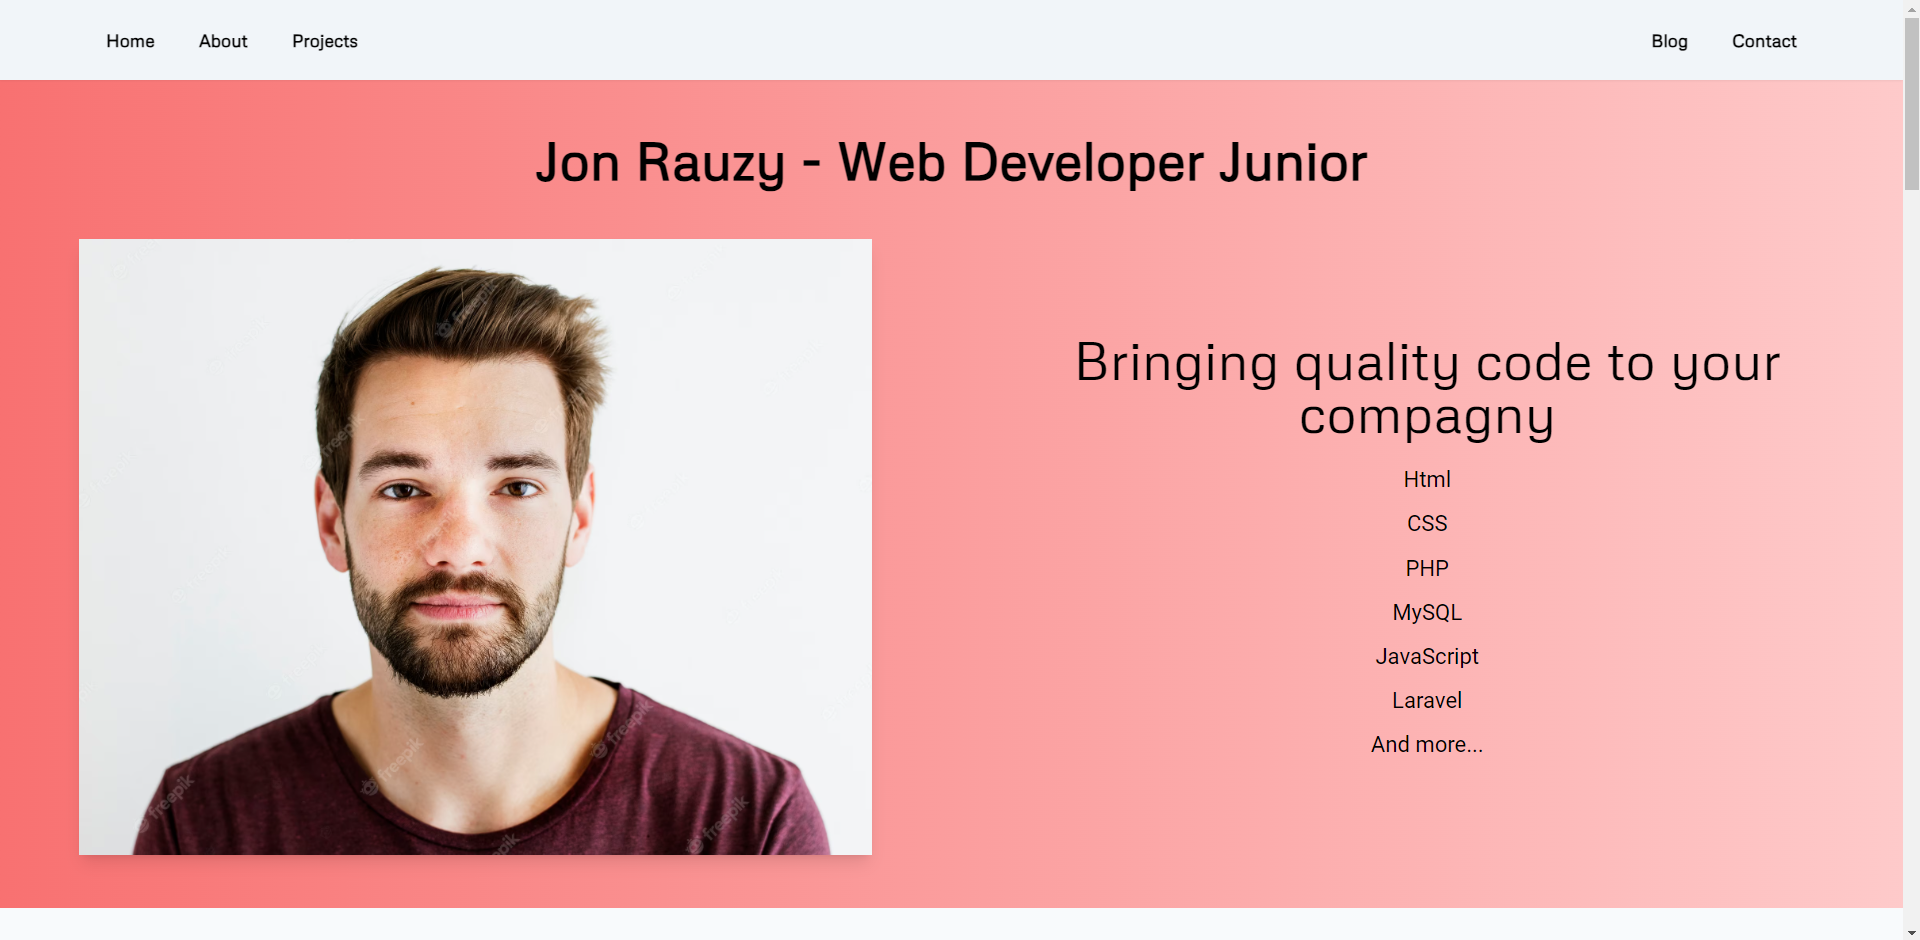
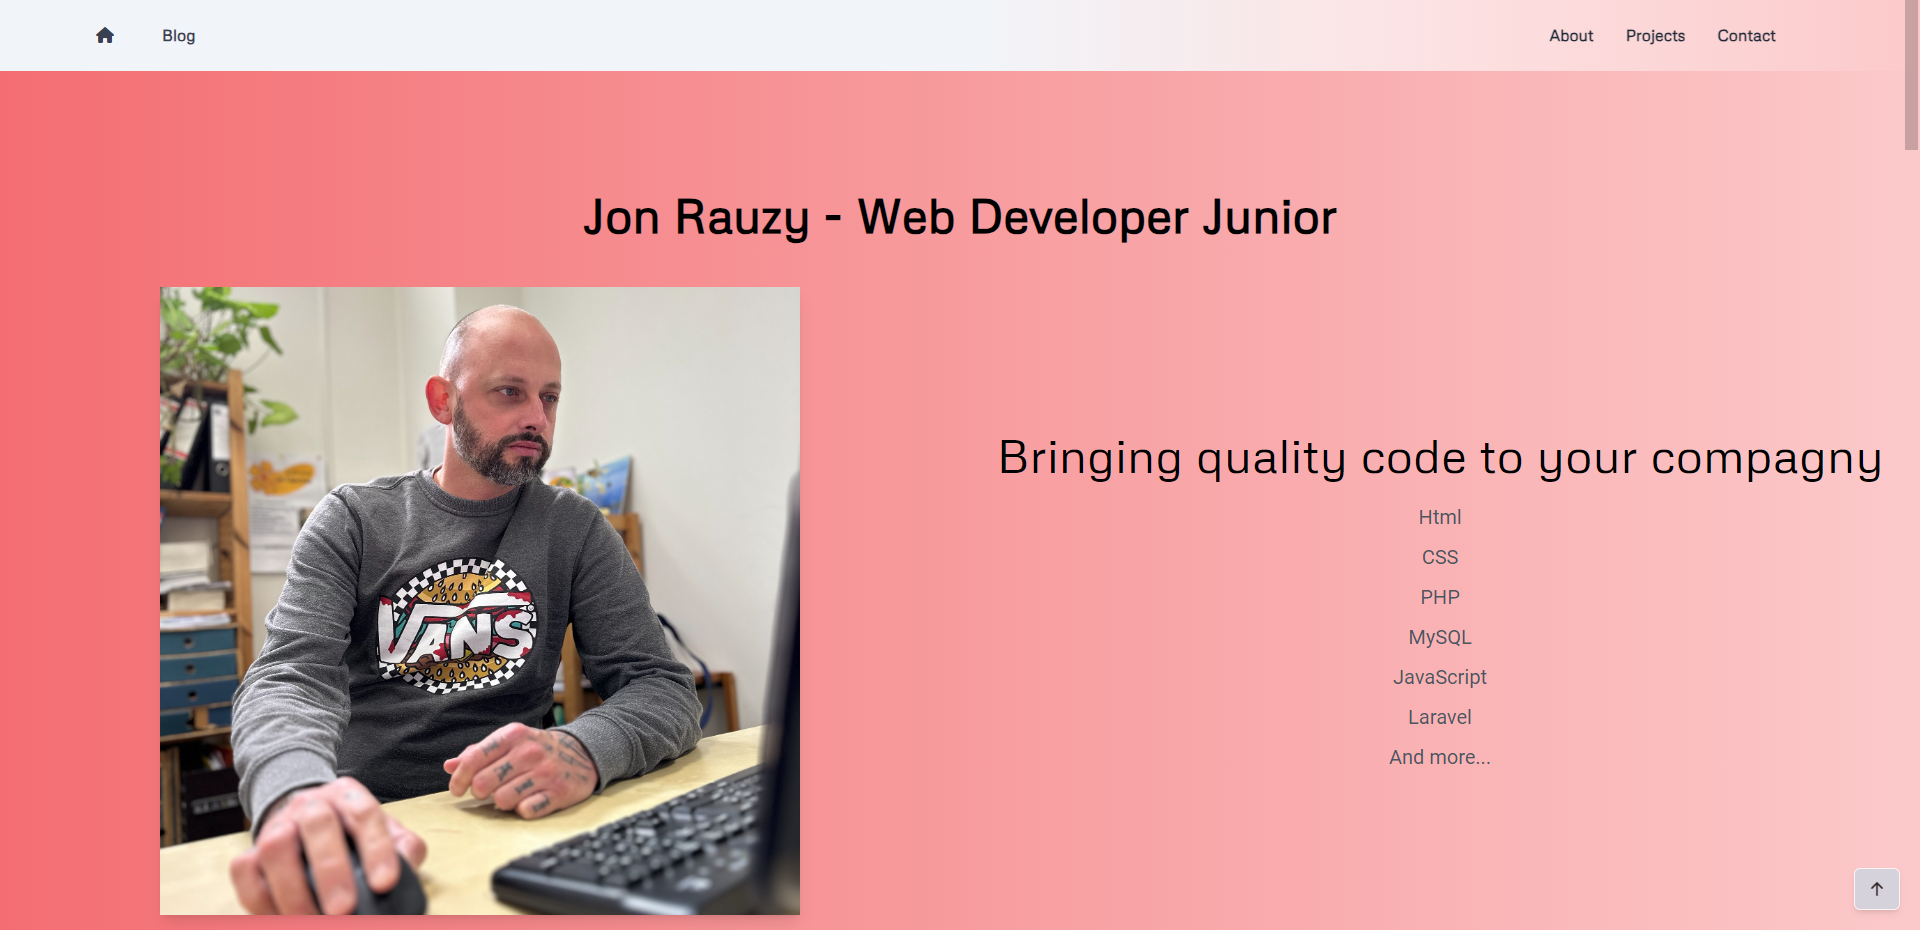
portrait homepage

diff --git a/resources/views/home.blade.php b/resources/views/home.blade.php
@@ -26,7 +26,7 @@
     
     <h1 class="text-4xl md:text-5xl font-bold text-center my-6 md:mb-12">Jon Rauzy - Web Developer Junior </h1>
     <div class="grid grid-cols-1 md:grid-cols-2">
-        <img class="w-9/12 m-auto mb-12 md:px-12:pt-12 shadow-lg" src="{{asset('asset/img/portrait1.jpg')}}">
+        <img class="w-8/12 m-auto mb-12 md:px-12:pt-12 shadow-lg" src="{{asset('asset/img/portrait1.png')}}">
         <div class="flex flex-col place-content-center">
             <h3 class="text-3xl md:text-5xl pb-6">Bringing quality code to your compagny</h3>
             <ul class="space-y-3 last:mb-12 text-xl text-gray-600">
